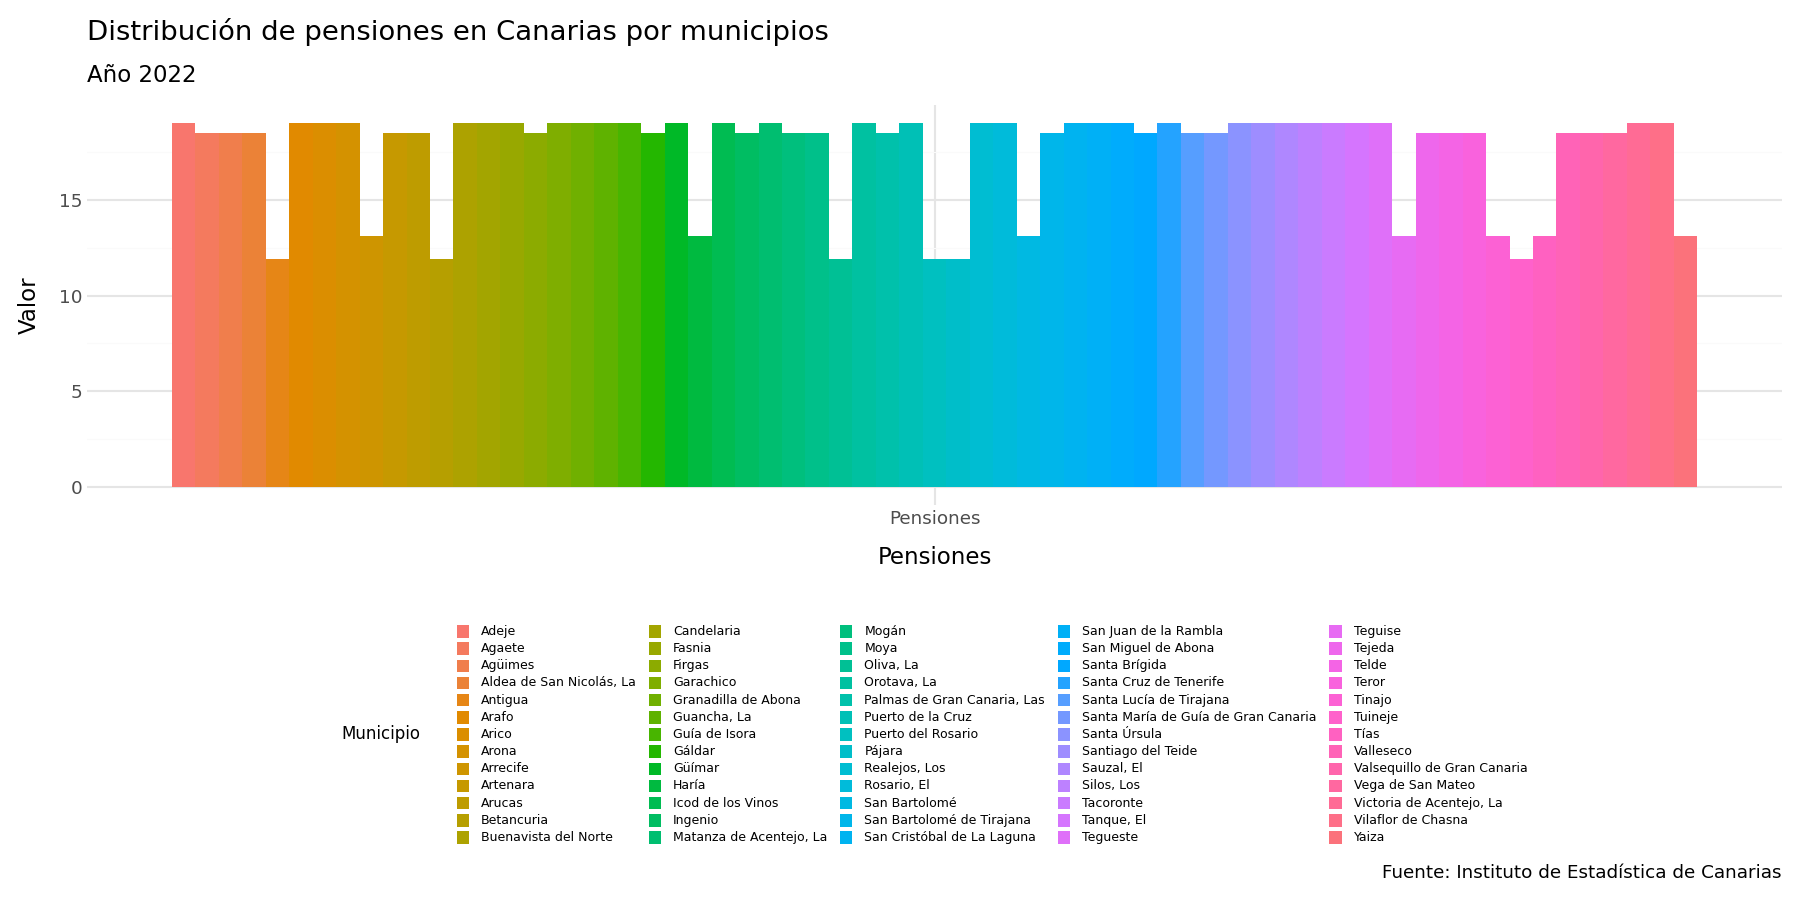
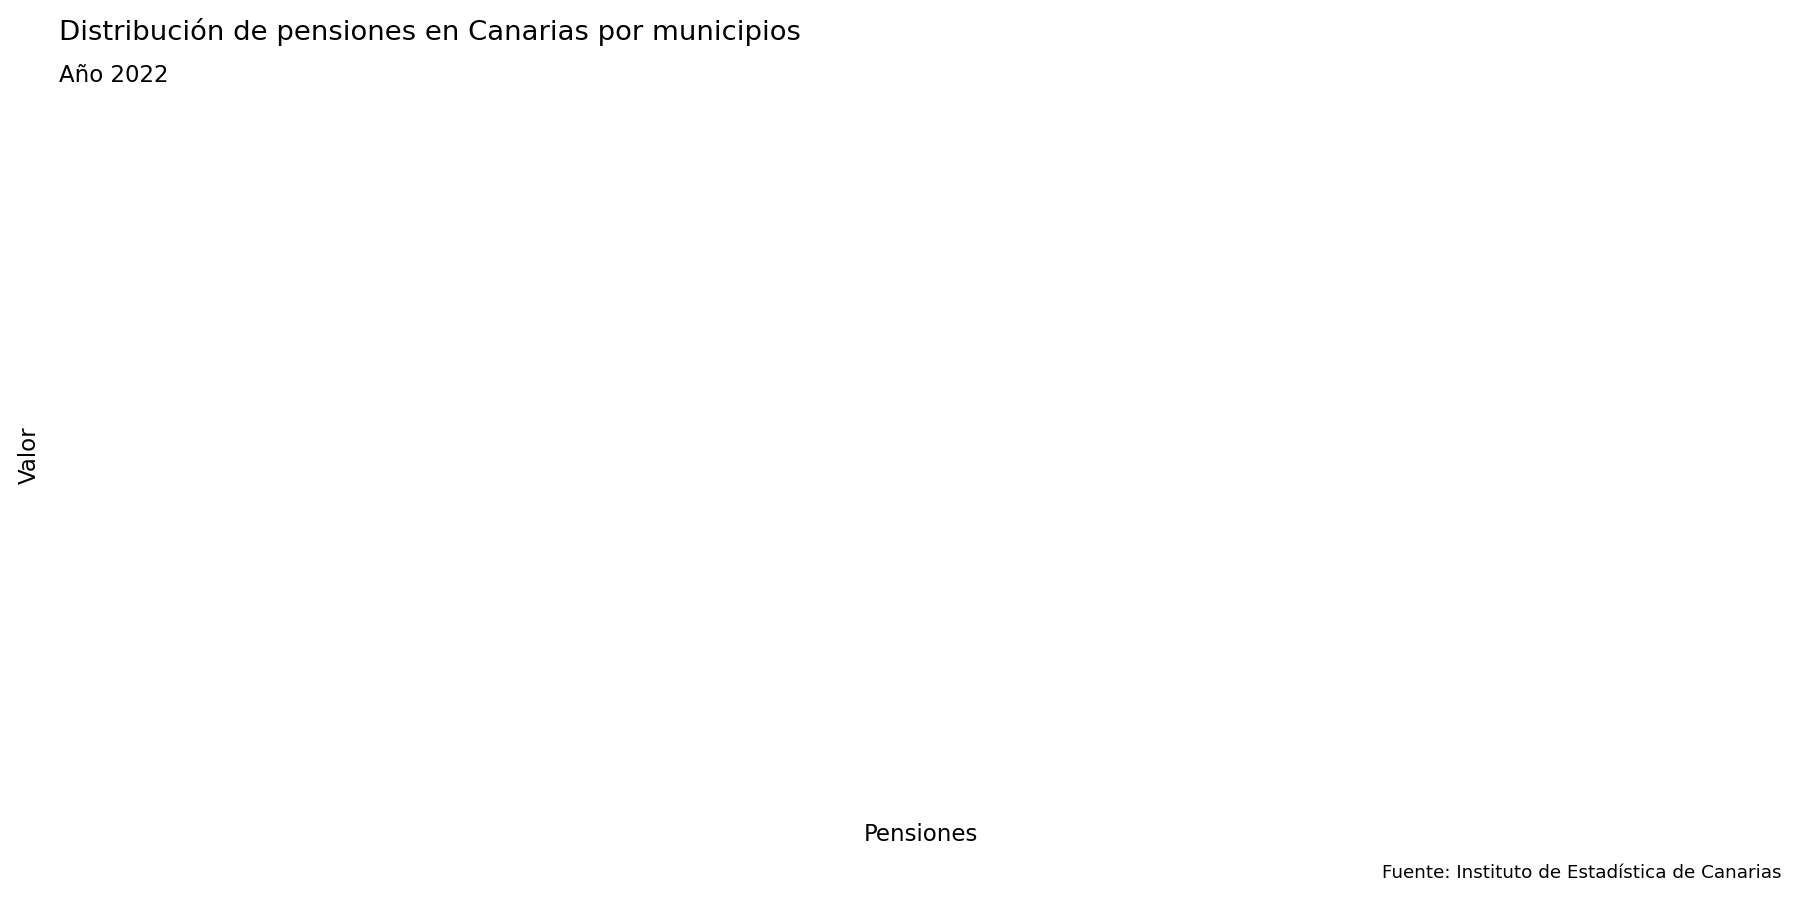
Añadimos los asset al fichero python y ejecutamos

diff --git a/lab_renta.py b/lab_renta.py
@@ -1,6 +1,7 @@
 import pandas as pd
-from dagster import asset
-from plotnine import ggplot,aes, geom_col
+import os
+from dagster import  asset, AssetExecutionContext
+from plotnine import ggplot , aes, geom_col, theme_minimal, labs, theme, element_text
 
 
 @asset
@@ -20,17 +21,127 @@ def limpiar_datos(leer_datos:pd.DataFrame):
     })
     df["anio"] = df["anio"].astype(int)
     df["valor"] = pd.to_numeric(df["valor"], errors="coerce")
+
+    df = df.dropna(subset=["anio", "valor", "territorio", "medida"])
+
+    
+    df["territorio"] = df["territorio"].astype(str).str.strip().str.lower()
+    df["medida"] = df["medida"].astype(str).str.strip().str.lower()
+
     return df
 
 @asset
-def mostrar_datos(limpiar_datos:pd.DataFrame):
-    df = limpiar_datos
-    print (df)
+def renta_2022(limpiar_datos: pd.DataFrame):
+    return limpiar_datos[limpiar_datos["anio"] == 2022].copy()
+
+@asset 
+def plot_renta_canarias_2022 (context: AssetExecutionContext, renta_2022: pd.DataFrame):
+    p =(
+        ggplot(renta_2022, aes(
+        x="medida",
+        y="valor"
+        ))
+        + geom_col()
+        + theme_minimal()
+        + labs(
+            title="Distribución de renta en Canarias",
+             subtitle="Año 2022",
+             x="Tramo de renta",
+            y="Valor",
+            caption="Fuente: Instituto de Estadística de Canarias"
+        )
+    )
+  
+    os.makedirs("outputs", exist_ok=True)
+
+    p.save("outputs/grafico_renta_Canarias.png", dpi=150, width=12, height=6)
+    print("Gráfico guardado en outputs/grafico_renta_Canarias.png")
+
+
+
 
 @asset
 def leer_codislas():
-    return pd.read_csv("codislas.csv")
+    codislas =pd.read_csv("codislas.csv", encoding="cp1252", sep=";")
+    if "ISLA" in codislas.columns:
+        codislas["ISLA"] = codislas["ISLA"].astype(str).str.strip().str.lower()
+    if "NOMBRE" in codislas.columns:
+        codislas["NOMBRE"] = codislas["NOMBRE"].astype(str).str.strip()
+
+    return codislas
 
 @asset
-def unir_datos(limpiar_datos: pd.DataFrame, leer_codilsas: pd.DataFrame):
-    
+def unir_datos(renta_2022: pd.DataFrame, leer_codislas: pd.DataFrame):
+    df= renta_2022.merge(
+        leer_codislas,
+        left_on="territorio",
+        right_on="ISLA",
+        how="inner"
+    )
+    return df
+
+
+
+@asset
+def plot_renta_municipios_2022(context: AssetExecutionContext, unir_datos: pd.DataFrame):
+    p = (
+        ggplot(unir_datos, aes(x="medida", y="valor", fill="NOMBRE"))
+        + geom_col(position="dodge")
+        + theme_minimal()
+        + theme(
+            legend_position="bottom",
+            legend_title=element_text(size=8),
+            legend_text=element_text(size=6),
+            legend_key_size=6,
+        )
+        + labs(
+            title="Distribución de renta en Canarias por municipios",
+            subtitle="Año 2022",
+            x="Tramo de renta",
+            y="Valor",
+            fill="Municipio",
+            caption="Fuente: Instituto de Estadística de Canarias",
+        )
+    )
+
+    os.makedirs("outputs", exist_ok=True)
+
+    p.save("outputs/grafico_renta_CanariasMunicipio.png", dpi=150, width=12, height=6)
+    print("Gráfico guardado en outputs/grafico_renta_CanariasMunicipio.png")
+
+
+@asset
+def renta_pensiones_2022(unir_datos: pd.DataFrame):
+    # Filtra solo la medida "Pensiones"
+    df = unir_datos[unir_datos["medida"] == "Pensiones"].copy()
+    return df
+
+
+@asset
+def plot_pensiones_municipios_2022(context: AssetExecutionContext, renta_pensiones_2022: pd.DataFrame):
+
+    p = (
+        ggplot(renta_pensiones_2022, aes(x="medida", y="valor", fill="NOMBRE"))
+        + geom_col(position="dodge")
+        + theme_minimal()
+        + theme(
+            legend_position="bottom",
+            legend_title=element_text(size=8),
+            legend_text=element_text(size=6),
+            legend_key_size=6,
+        )
+        + labs(
+            title="Distribución de pensiones en Canarias por municipios",
+            subtitle="Año 2022",
+            x="Pensiones",
+            y="Valor",
+            fill="Municipio",
+            caption="Fuente: Instituto de Estadística de Canarias",
+        )
+    )
+
+    os.makedirs("outputs", exist_ok=True)
+
+    p.save("outputs/grafico_CanariasMunicipioPensiones.png", dpi=150, width=12, height=6)
+    print("Gráfico guardado en outputs/grafico_renta_CanariasMunicipioPensiones.png")
+
